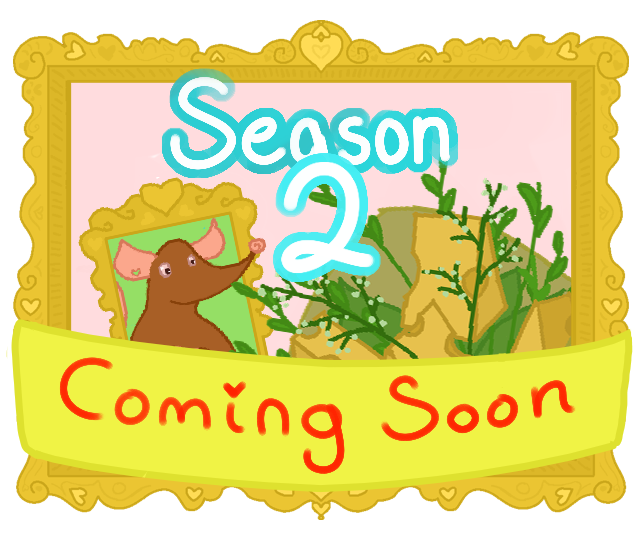
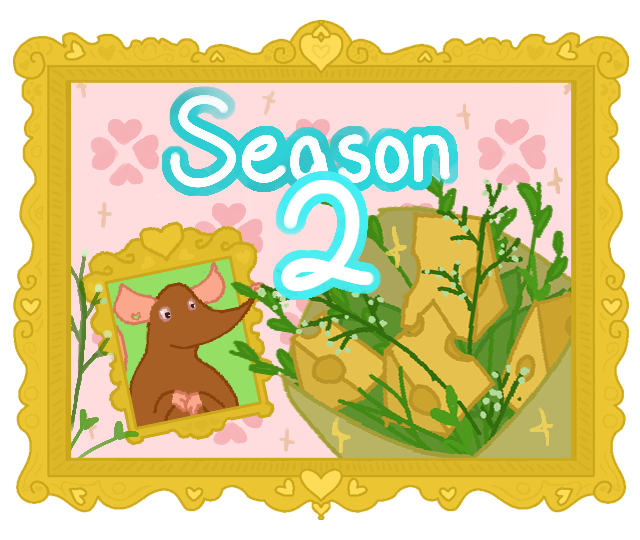
season 2!

diff --git a/index.html b/index.html
@@ -69,15 +69,18 @@
           <div class="image-container">
             <img src="img/s1.png" alt="season 1, a rat with roses" />
             <button>
-              <b>Embark</b>
+              <b>Play now!</b>
             </button>
           </div>
         </a>
-        <img
-          class="game"
-          src="img/s2.png"
-          alt="season 2, a rat with roses with a big banner that says Coming Soon."
-        />
+        <a class="game" href="https://algorat.club/ratchelor2" target="_blank">
+          <div class="image-container">
+            <img src="img/s2.png" alt="season 2, a rat with roses" />
+            <button>
+              <b>Play now!</b>
+            </button>
+          </div>
+        </a>
       </div>
     </div>
   </body>

diff --git a/style.css b/style.css
@@ -23,6 +23,7 @@ body {
   align-items: center;
   justify-content: space-evenly;
   width: 100%;
+  max-width: 1300px;
 }
 
 .games {
@@ -51,7 +52,7 @@ body {
 
 .credits {
   font-family: "Yusei Magic";
-  font-size: 20;
+  font-size: 24px;
   text-align: center;
 }
 
@@ -97,6 +98,11 @@ button:hover {
 }
 
 @media (max-width: 400px) {
+
+  .credits {
+    font-size: 1rem;
+  }
+
   body {
     padding-top: 32px;
     padding-bottom: 32px;
